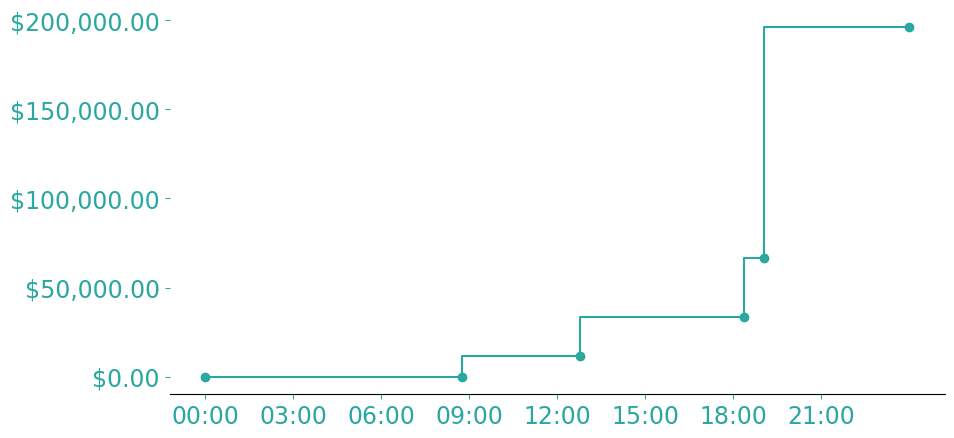
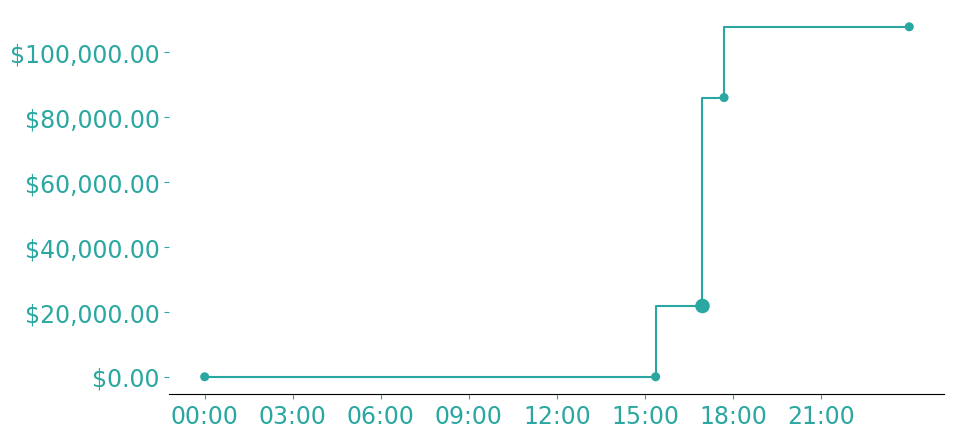
Minor changes

diff --git a/monitoring/static/processed_transactions.html b/monitoring/static/processed_transactions.html
@@ -143,7 +143,7 @@
 <body>
     <div class="container">
         <h1>Daily Transaction Summary 💵</h1>
-        <h4> Date: 2023-09-20</h4>
+        <h4> Date: 2023-09-25</h4>
         <h4>Here is a summary of today's transactions:</h4>
         
         <table>
@@ -158,26 +158,20 @@
                 
                     <tr>
                         <td>Compra</td>
-                        <td>EXLIBRIS CAFE LIBR Y</td>
-                        <td>$11,500.00</td>
-                    </tr>
-                
-                    <tr>
-                        <td>Transferencia</td>
-                        <td>61737774375</td>
-                        <td>$22,000.00</td>
+                        <td>PAYU*PAGOS AUTOMATIC</td>
+                        <td>$21,800.00</td>
                     </tr>
                 
                     <tr>
                         <td>Compra</td>
-                        <td>KALDI KAFFE RESTAURA</td>
-                        <td>$32,900.00</td>
+                        <td>KOKORIKO AEROPUERTO</td>
+                        <td>$64,200.00</td>
                     </tr>
                 
                     <tr>
                         <td>Compra</td>
-                        <td>JUMBO DE LA 65</td>
-                        <td>$129,800.00</td>
+                        <td>PAYU*PAGOS AUTOMATIC</td>
+                        <td>$21,800.00</td>
                     </tr>
                 
             </tbody>
@@ -190,16 +184,16 @@
 
         <div class="summary-box">
             <div class="summary-header">Summary</div>
-            <div class="summary-data">Number of Transactions: 4</div>
-            <div class="summary-data">Sum of Transactions: $196,200.00</div>
-            <div class="summary-data">Average Amount: $49,050.00</div>
+            <div class="summary-data">Number of Transactions: 3</div>
+            <div class="summary-data">Sum of Transactions: $107,800.00</div>
+            <div class="summary-data">Average Amount: $35,933.33</div>
         </div>
         
         <div class="comparison-box">
             <div class="comparison-header">How was it today comparing with the past?</div>
-            <div class="comparison-data">Sum of Today's Transactions: $196,200.00</div>
-            <div class="comparison-data">Historical Average Amount: $72,096.00</div>
-            <div class="comparison-data">Comparing to a normal day, today's spending was 2.7x</div>
+            <div class="comparison-data">Sum of Today's Transactions: $107,800.00</div>
+            <div class="comparison-data">Historical Average Amount: $72,727.00</div>
+            <div class="comparison-data">Comparing to a normal day, today's spending was 1.5x</div>
         </div>
 
         

diff --git a/monitoring/process_transactions.py b/monitoring/process_transactions.py
@@ -2,6 +2,7 @@ import datetime
 import os
 from typing import List, Literal, Union
 
+import numpy as np
 import pandas as pd
 import pytz
 import requests
@@ -155,8 +156,10 @@ def create_html_email(transactions: List[dict]) -> str:
         The html email to send.
     """
     # Check the day status
-    day_status = check_anomaly(
-        compute_daily_values(pd.DataFrame(transactions))
+    day_status = (
+        check_anomaly(compute_daily_values(pd.DataFrame(transactions)))
+        if len(transactions) > 0
+        else "normal"
     )
 
     # Create a Jinja2 environment with a template loader
@@ -164,6 +167,17 @@ def create_html_email(transactions: List[dict]) -> str:
 
     # Load your HTML template
     template = env.get_template("base.html")
+
+    # If there are no transactions, create a list with a "No transaction"
+    # message
+    if len(transactions) == 0:
+        transactions = [
+            {
+                "transaction_type": "No transaction",
+                "merchant": "No transaction",
+                "amount": 0,
+            }
+        ]
 
     # Get the summary of the transactions
     summary = {
@@ -179,7 +193,6 @@ def create_html_email(transactions: List[dict]) -> str:
             )
         ),
     }
-
     # Render the template with the data
     rendered_template = template.render(
         date_value=datetime.datetime.now()
@@ -227,6 +240,9 @@ def create_step_plot(transactions: List[dict]) -> plt.figure:
     fig = plt.figure(figsize=(10, 5))
     ax = fig.add_subplot(1, 1, 1)
 
+    # Values of the transactions
+    gross_values = [transaction["amount"] for transaction in transactions]
+
     # Times of the transactions
     datetimes = (
         [datetime.datetime.now().replace(hour=0, minute=0, second=0)]
@@ -238,17 +254,8 @@ def create_step_plot(transactions: List[dict]) -> plt.figure:
     )
     values = (
         [0]
-        + [
-            (-1)
-            * sum(
-                [transaction["amount"] for transaction in transactions[:i]]
-            )
-            for i in range(len(transactions))
-        ]
-        + [
-            (-1)
-            * sum([transaction["amount"] for transaction in transactions])
-        ]
+        + [(-1) * sum(gross_values[:i]) for i in range(len(transactions))]
+        + [(-1) * sum(gross_values)]
     )
 
     # Create the plot. Add the 0:00:00 hours and the 23:59:59 hours. For
@@ -256,10 +263,15 @@ def create_step_plot(transactions: List[dict]) -> plt.figure:
     # by the number of the last transaction. The y values must be the
     # rolling sum of the amount.
     ax.step(datetimes, values, color="#29A7A0")
-
     # Create points in the plot
-    ax.plot(datetimes, values, "o", color="#29A7A0")
-
+    ax.scatter(
+        datetimes,
+        values,
+        color="#053937",
+        s=[30]
+        + [(200 * v) / sum(gross_values) for v in gross_values]
+        + [30],
+    )
     # In the xticks, show uniquely the hours without the date
     ax.set_xticks(
         [

diff --git a/expenses/api/routers/monitoring.py b/expenses/api/routers/monitoring.py
@@ -20,7 +20,9 @@ router = APIRouter(prefix="/monitoring")
 @router.post(
     "/retrain_anomaly_model", dependencies=[Depends(check_access_token)]
 )
-def retrain_anomaly_model() -> str:
+def retrain_anomaly_model(
+    max_samples: int, contamination: float, bootstrap: bool
+) -> str:
     """
     This function retrains the anomaly model with the current data
     and save the model as a pkl file
@@ -58,9 +60,9 @@ def retrain_anomaly_model() -> str:
 
     # Fit the Isolation Forest model
     params = {
-        "max_samples": 150,
-        "contamination": "auto",
-        "bootstrap": True,
+        "max_samples": max_samples,
+        "contamination": contamination,
+        "bootstrap": bootstrap,
     }
     model = IsolationForest(**params)
     model.fit(X)
